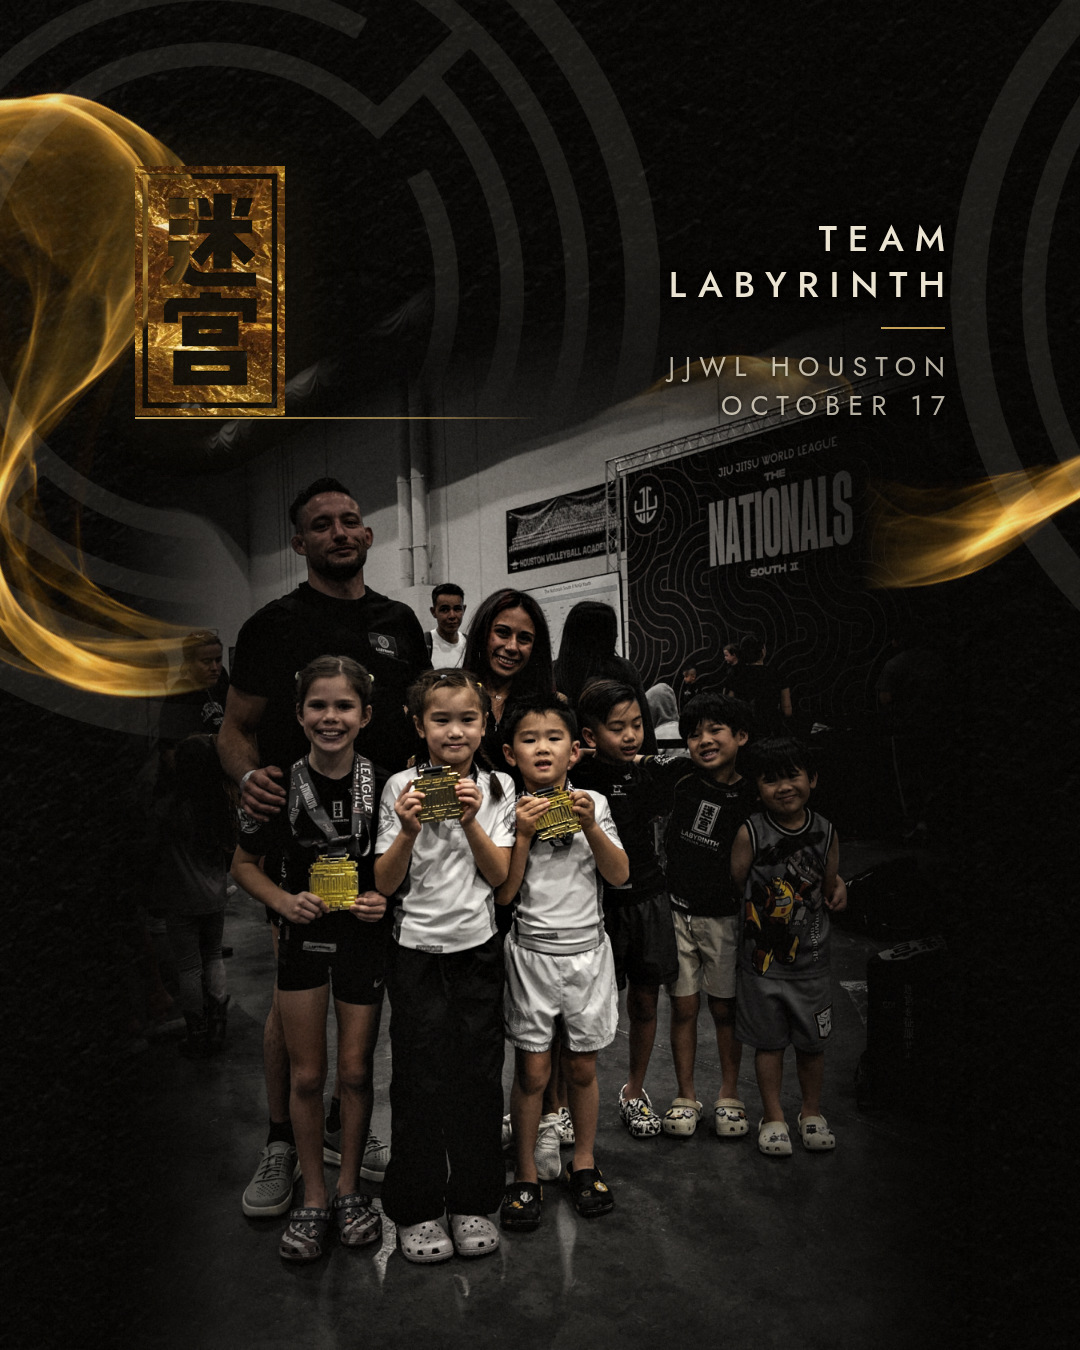
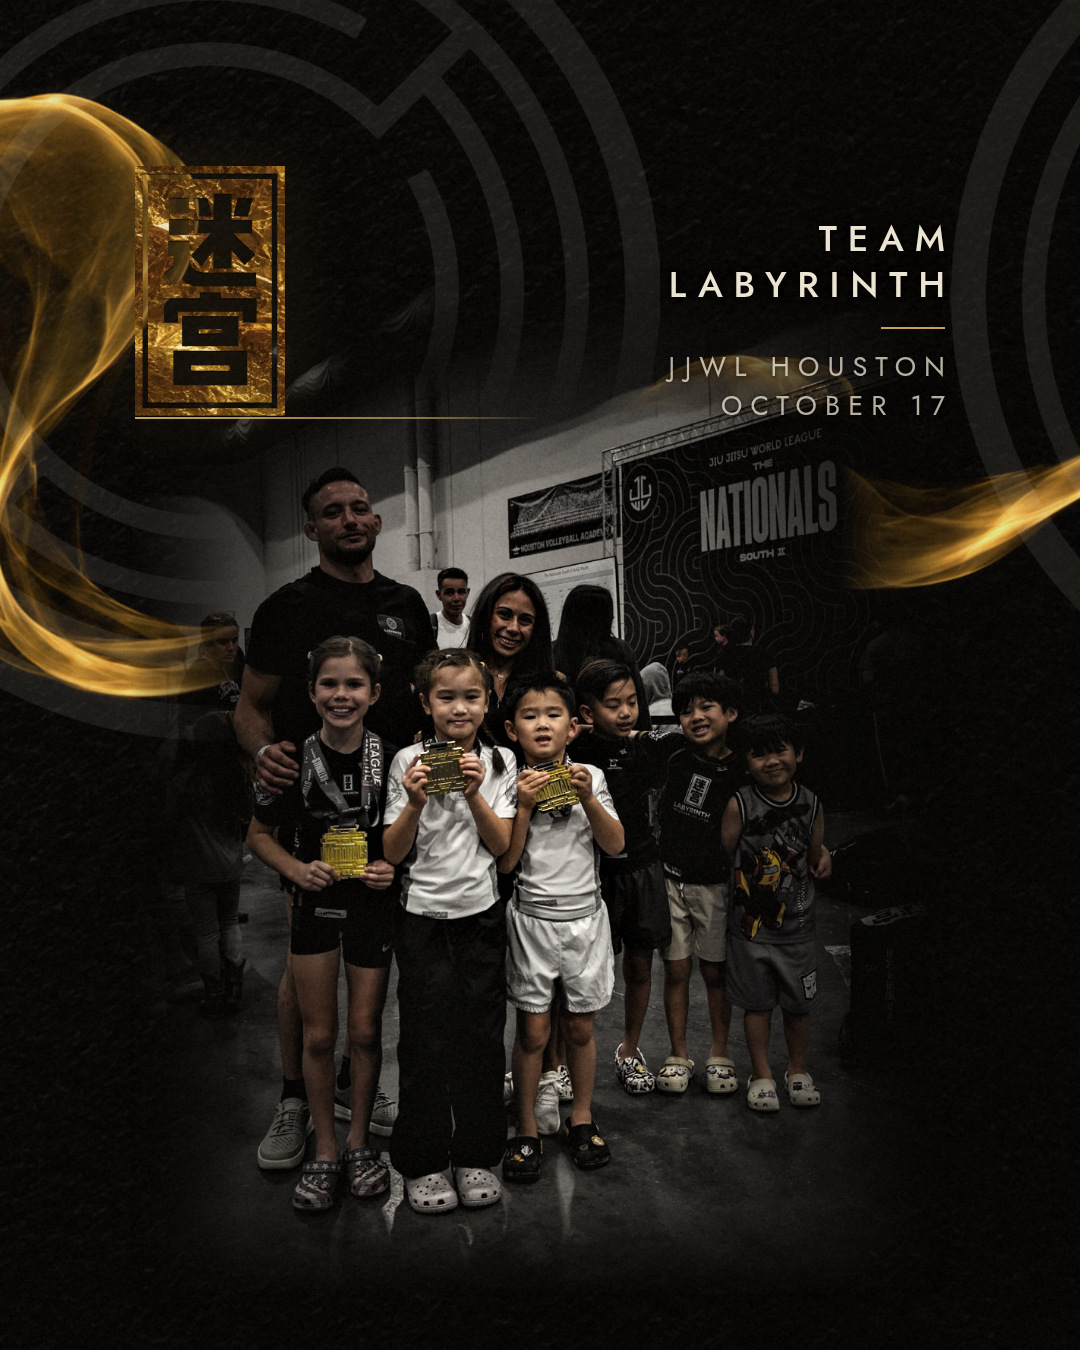
JJWL results post: fit each plate so what matters stays inside the middle square
In the square crop of the third picture the trophy's label (3RD PLACE) fell below the
middle 1080x1080, and the children's shoes in the second picture were clipped. Each plate now
has its own size (0.78, 0.76 and 0.72 of the slide's width) and a short fade at its foot, so the
whole child and trophy, and the children's shoes, are inside y 135-1215; the bystanders' dark
spots on the third picture follow the new size.

Claude-Session: https://claude.ai/code/session_01T1jcBhMbJVQd3Vp58LzqMh

Changed region(s): [[0.0917, 0.28, 0.7944, 1.0], [0.7944, 0.4044, 0.8861, 0.4356], [0.1833, 0.3111, 0.2139, 0.3422]]

diff --git a/scripts/jjwl-results-slides.html b/scripts/jjwl-results-slides.html
@@ -32,10 +32,11 @@ html,body{margin:0;background:#000}
 .ribbon{position:absolute;left:0;top:0;transform-origin:0 0}
 .thread{mix-blend-mode:screen;-webkit-mask-image:linear-gradient(90deg,transparent 0,#000 150px,#000 2290px,transparent 2480px);mask-image:linear-gradient(90deg,transparent 0,#000 150px,#000 2290px,transparent 2480px)}
 
-/* the plate: the photograph, a little smaller than the slide, melting into the black on three sides */
-.plate{position:absolute;left:108px;top:270px;width:864px;height:1080px;
-  -webkit-mask-image:linear-gradient(90deg,transparent 0,#000 110px,#000 calc(100% - 110px),transparent 100%),linear-gradient(180deg,transparent 0,#000 150px);
-  -webkit-mask-composite:source-in;mask-image:linear-gradient(90deg,transparent 0,#000 110px,#000 calc(100% - 110px),transparent 100%),linear-gradient(180deg,transparent 0,#000 150px);mask-composite:intersect}
+/* the plate: the photograph, smaller than the slide (--s of its width, centred), melting into the black on all four sides. Its size is set so that what matters in
+   the picture stays inside the middle square, y 135 to 1215: the children's shoes in the second, the whole trophy in the third. */
+.plate{--s:.8;--fb:90px;position:absolute;left:calc(540px - 540px * var(--s));top:270px;width:calc(1080px * var(--s));height:calc(1350px * var(--s));
+  -webkit-mask-image:linear-gradient(90deg,transparent 0,#000 110px,#000 calc(100% - 110px),transparent 100%),linear-gradient(180deg,transparent 0,#000 150px,#000 calc(100% - var(--fb)),transparent 100%);
+  -webkit-mask-composite:source-in;mask-image:linear-gradient(90deg,transparent 0,#000 110px,#000 calc(100% - 110px),transparent 100%),linear-gradient(180deg,transparent 0,#000 150px,#000 calc(100% - var(--fb)),transparent 100%);mask-composite:intersect}
 .plate img{display:block;width:100%;height:100%}
 /* whoever stands at the edges of a picture fades into the dark first */
 .plate::after{content:"";position:absolute;inset:0;background:var(--extra,linear-gradient(transparent,transparent)),linear-gradient(90deg,rgba(6,5,4,var(--sl,.4)) 0,rgba(6,5,4,0) var(--slw,30%),rgba(6,5,4,0) calc(100% - var(--srw,30%)),rgba(6,5,4,var(--sr,.5)) 100%)}
@@ -71,9 +72,9 @@ html,body{margin:0;background:#000}
   </div>
 
   <div class="layer">
-    <div class="at"><div class="plate" style="top:312px;--sl:.3;--sr:.5"><img src="/work/cover.png" alt=""></div></div>
-    <div class="at"><div class="plate" style="--sl:.78;--slw:34%;--sr:.78;--srw:34%"><img src="/work/team.png" alt=""></div></div>
-    <div class="at"><div class="plate" style="--sl:.94;--slw:52%;--sr:.9;--srw:44%;--extra:radial-gradient(ellipse 190px 150px at 235px 105px,rgba(6,5,4,.95),rgba(6,5,4,.8) 55%,rgba(6,5,4,0) 100%),radial-gradient(ellipse 120px 110px at 700px 270px,rgba(6,5,4,.8),rgba(6,5,4,0) 100%)"><img src="/work/trophy.png" alt=""></div></div>
+    <div class="at"><div class="plate" style="--s:.78;top:300px;--sl:.3;--sr:.5"><img src="/work/cover.png" alt=""></div></div>
+    <div class="at"><div class="plate" style="--s:.76;--sl:.78;--slw:34%;--sr:.78;--srw:34%"><img src="/work/team.png" alt=""></div></div>
+    <div class="at"><div class="plate" style="--s:.72;top:277px;--fb:56px;--sl:.94;--slw:52%;--sr:.9;--srw:44%;--extra:radial-gradient(ellipse 171px 135px at 229px 73px,rgba(6,5,4,.95),rgba(6,5,4,.8) 55%,rgba(6,5,4,0) 100%),radial-gradient(ellipse 108px 99px at 657px 263px,rgba(6,5,4,.8),rgba(6,5,4,0) 100%)"><img src="/work/trophy.png" alt=""></div></div>
   </div>
 
   <div class="layer">
